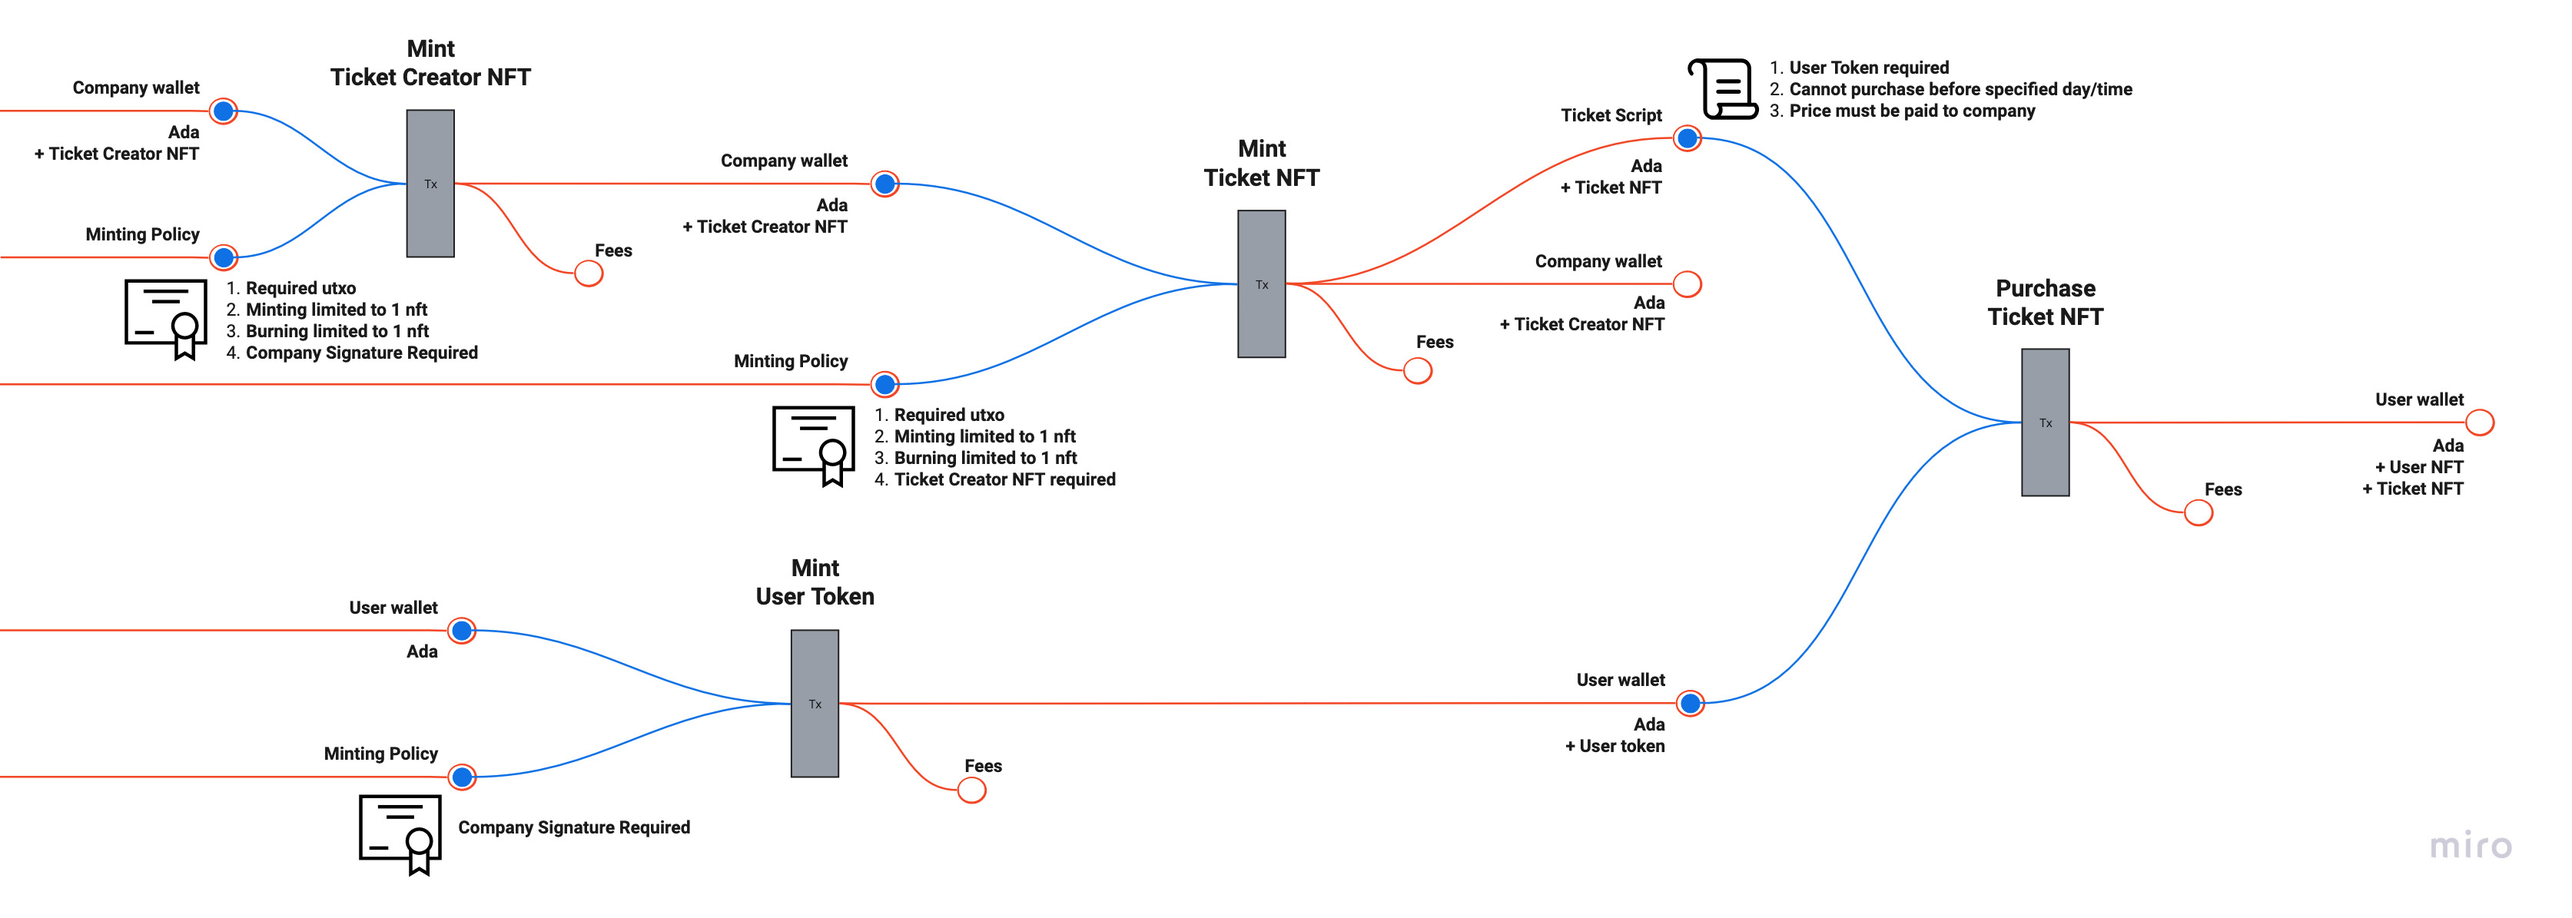
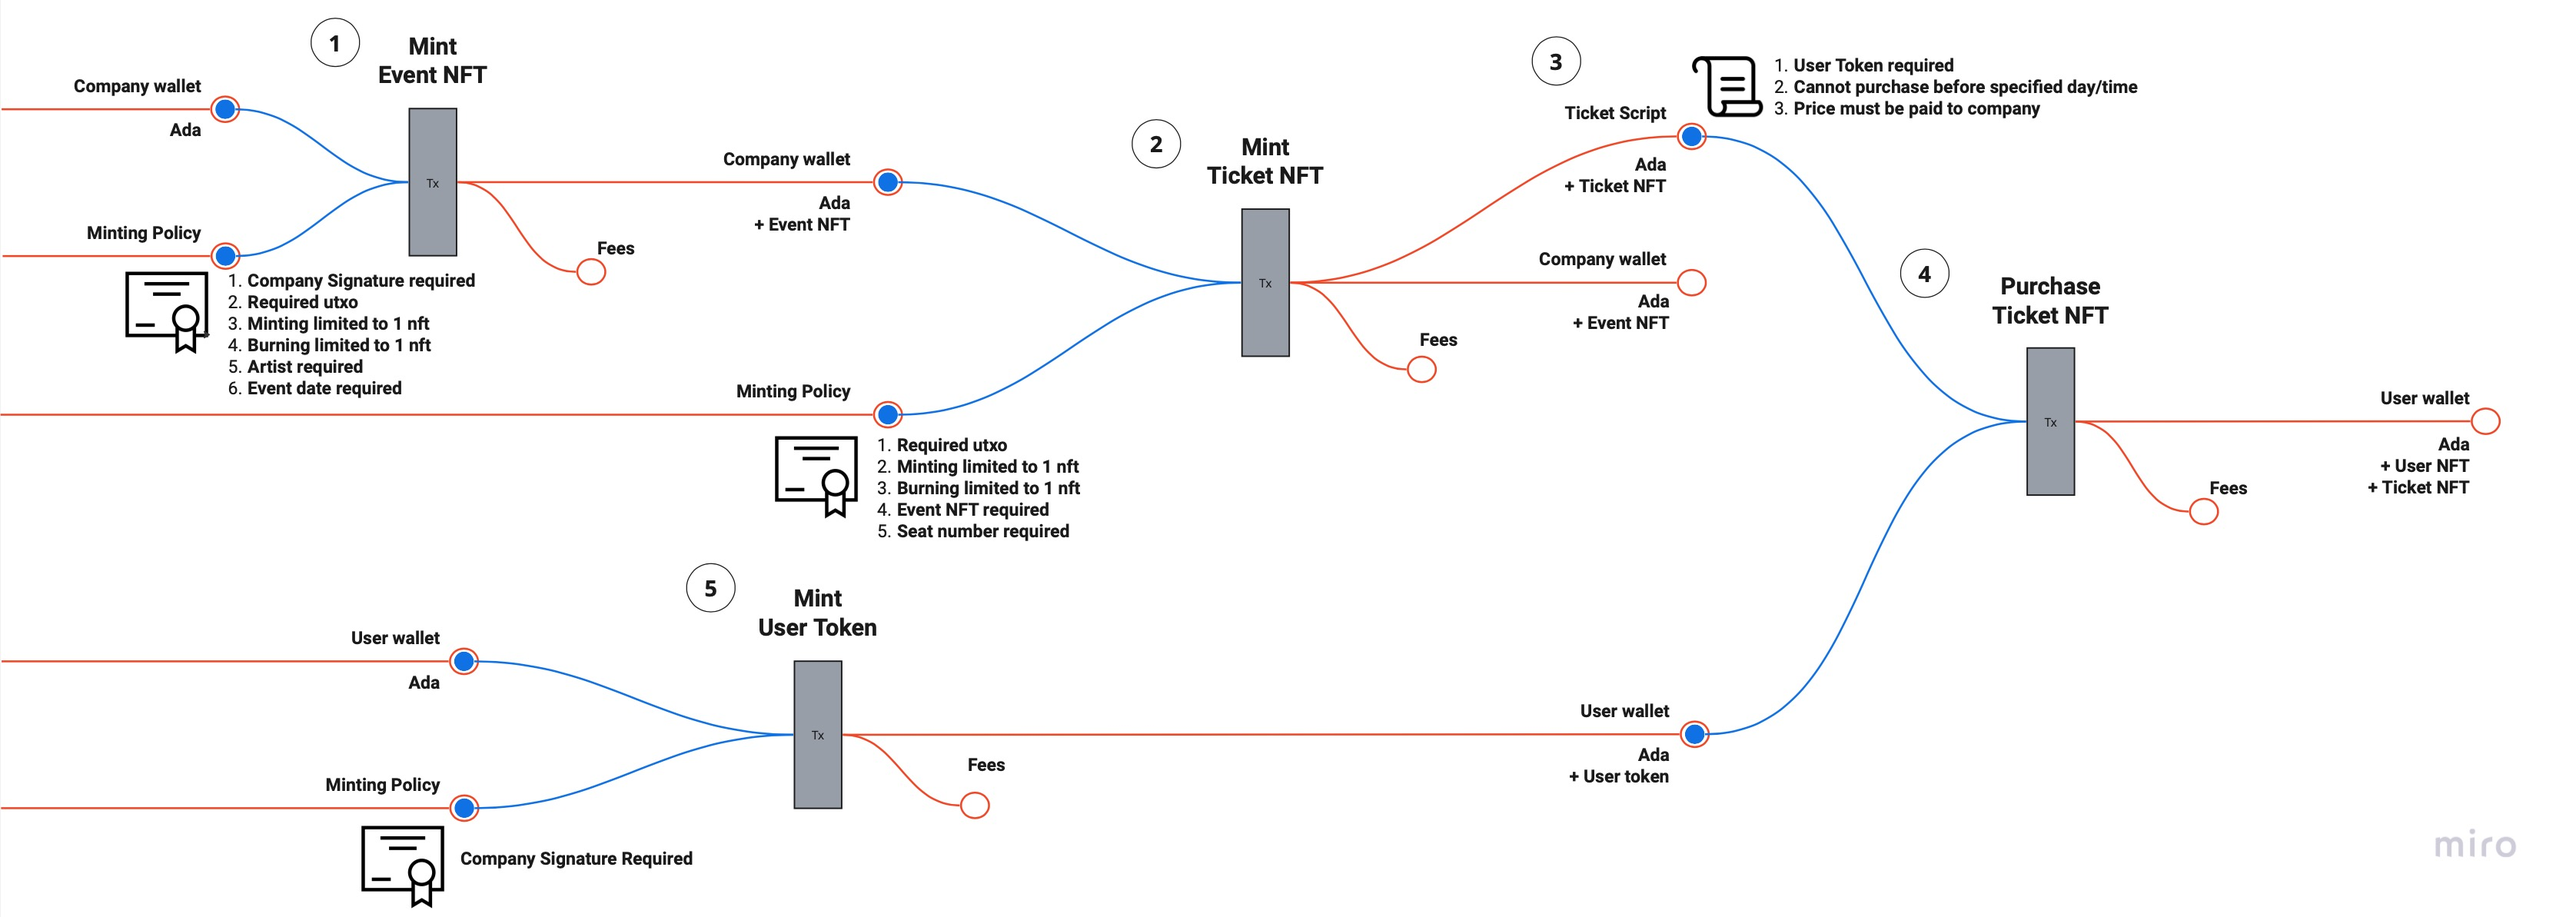
Update user flow diagram

diff --git a/README.md b/README.md
@@ -5,13 +5,13 @@ Decentalized Tix is a prototype for an event ticketing system using the blockcha
 
 ## User Flow Process
 ![User Flow diagram](docs/resources/user-flow-diagram.jpg)
-The company [mint](#mint-event-nft)s an event NFT. 
+1. The company [mint](#mint-event-nft)s an event NFT. 
 
-The event NFT allows the holder to mint tickets for a particular event. 
+2. The event NFT allows the holder to mint tickets for a particular event. 
+3. Once a ticket is [mint](#mint-ticket-nft)ed, the ticket is sent to a vesting script address.
+4. Tickets can only be [purchase](#purchase-ticket-nft-from-script-address)d by user token holders.
 
-Once a ticket is [mint](#mint-ticket-nft)ed, the ticket is sent to a vesting script address. Tickets can only be [purchase](#purchase-ticket-nft-from-script-address)d by user token holders.
-
-A user token is [mint](#mint-user-token)ed upon user account creation. 
+5. A user token is [mint](#mint-user-token)ed upon user account creation. 
 
 ---
 
